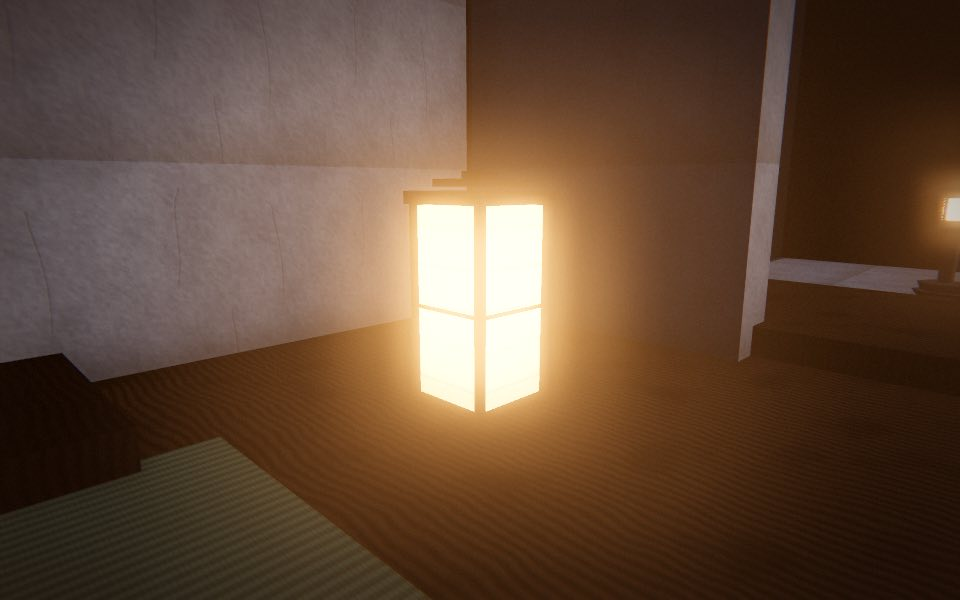
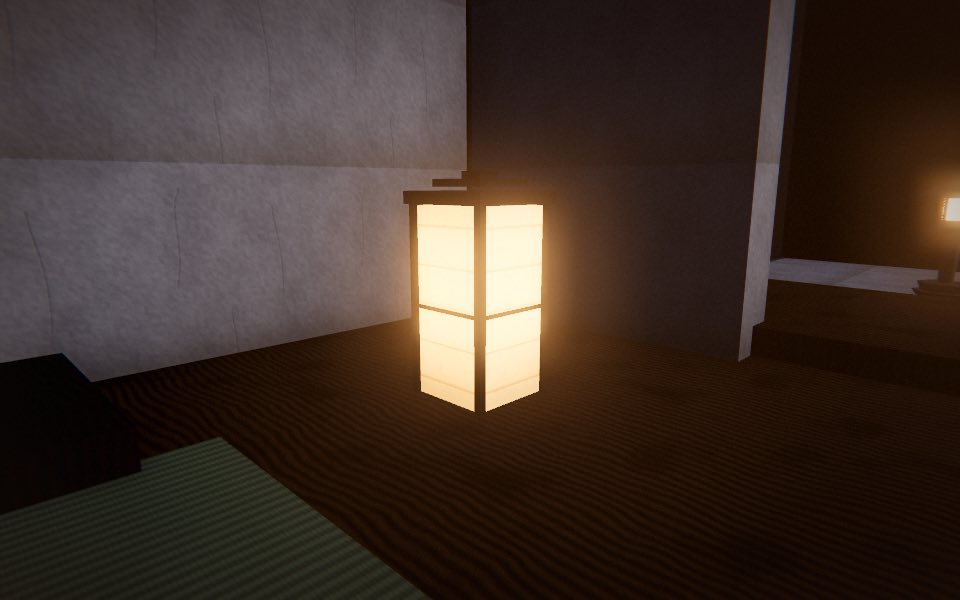
v-lanterns: tone down andon paper glow, re-shoot andon 18/22 h

diff --git a/src/kit/lanterns/build.js b/src/kit/lanterns/build.js
@@ -118,13 +118,13 @@ export function buildAndon(ctx, layout, p) {
     pane.rotateY(a).translate(Math.sin(a) * (hw - 0.002), (y0 + y1) / 2, Math.cos(a) * (hw - 0.002));
     panes.push(pane);
   }
-  const lit = tier === 'far' ? null : litWashi(washiTexture(km, { ribs: 5 }), { color: paperTint(p.flame), glowColor: flameColor(p.flame).getHex(), glow: 0.4, fall: 0.5 });
+  const lit = tier === 'far' ? null : litWashi(washiTexture(km, { ribs: 5 }), { color: paperTint(p.flame), glowColor: flameColor(p.flame).getHex(), glow: 0.22, fall: 0.5 });
   const g = new THREE.Group();
   const f = mesh(indexed(merge(frame)), timber, 'frame');
   const paper = mesh(indexed(merge(panes)), lit || ownerGlow(ctx, 'lanternPaper'), 'paper', false);
   g.add(f, paper);
   // the paper is centred on its own flame so the glow falls off from the middle
   paper.geometry.translate(0, -(y0 + y1) / 2, 0); paper.position.y = (y0 + y1) / 2;
-  const step = lampUpdate({ lit, index: layout.index, base: 0.4, gain: 1.4, always: 0 });
+  const step = lampUpdate({ lit, index: layout.index, base: 0.22, gain: 0.55, always: 0 });
   return { group: g, parts: { frame: f, paper }, live: lit ? [paper] : [], update: step, dispose() { freePrivate([lit]); } };
 }

diff --git a/docs/fable/status/v-lanterns.md b/docs/fable/status/v-lanterns.md
@@ -50,3 +50,9 @@ None. Chochin/andon/courtyard/pool shots not captured (interior and hidden place
 - andon (interior, cam y 100.9): AAA-1 frame, ribs and four panes beat the flat box; AAA-5 lit all hours like the classic (paper glow base 0.4). Concern: at night the paper is close to blown out white; gain could be lowered by the Integrator/design pass.
 - courtyard-toro: AAA-1 hollow Kasuga with visible higuchi vs four boxes; AAA-5 always warm, matching the interior being lit.
 - pool-toro (-16.1,0,-24.6): AAA-1 hollow firebox and swept roof; AAA-5 halo is a tighter bloom than the classic big orange disc, lamp lights at dusk and stays dark by day; judged better, flagged as a visible look difference.
+
+## Andon fix
+- Andon lit-paper emissive lowered (base 0.4 to 0.22, gain 1.4 to 0.55, texture glow 0.4 to 0.22). 18 h and 22 h modular shots re-taken and Read: paper is warm cream with the rib texture visible, no longer white; brightness is now close to the classic yellow box.
+- pool-toro halo kept: shot from the Moon Pool seat distance (about 4 m) at 22 h reads clearly lit with a warm bloom; no widening needed.
+- kit_contract_test --family lanterns: 6 assets, 18 asset×tier builds, 509 checks, 0 failed (gpu: ANGLE (Apple, ANGLE Metal Renderer: Apple M5 Max, Unspecified Version), 1705 ms)
+- verify: 
